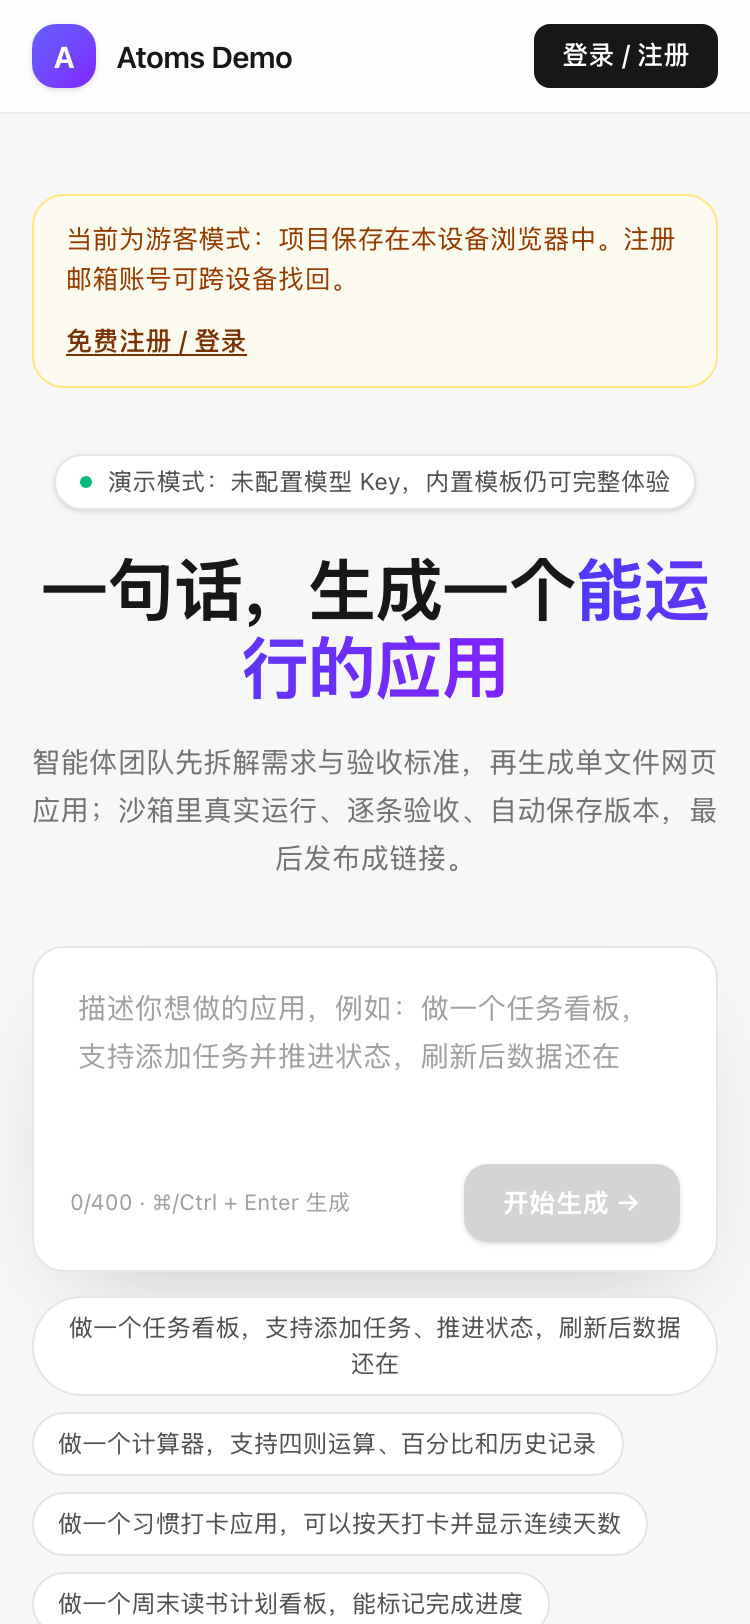
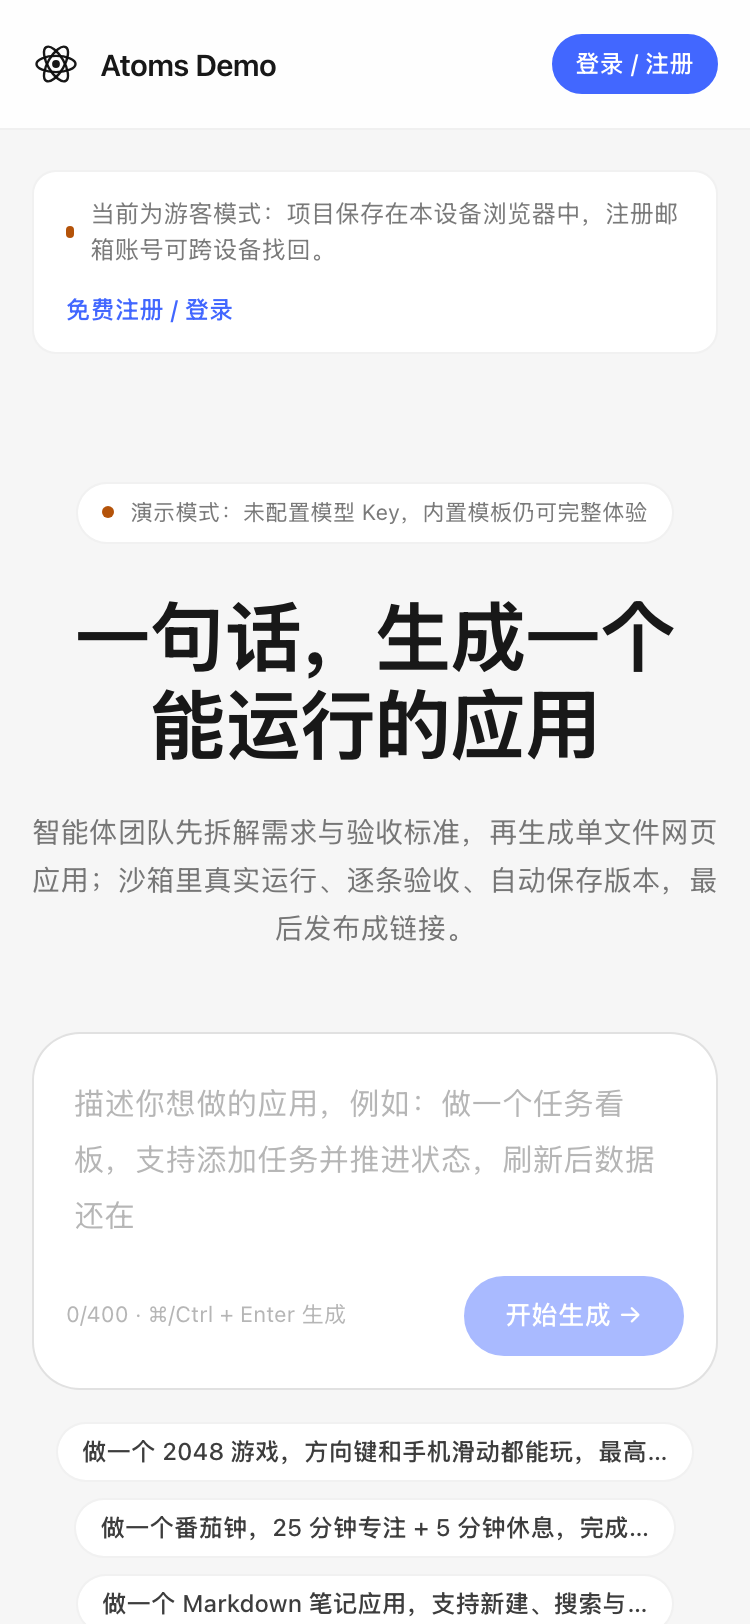
Document atoms-style UI refresh and refresh evidence screenshots
- Add a design-language section (paper-gray canvas, white surfaces,
  1px borders, cobalt #4267ff, pill controls, system font stack) and
  point UX evaluation at it
- Replace old 375px screenshots and add 1440px home/workspace/share
  captures under docs/evidence

diff --git a/docs/说明文档.md b/docs/说明文档.md
@@ -1,6 +1,6 @@
 # Atoms Demo 说明文档
 
-> 版本 v1.2（2026-11-13）｜仓库 [guojia3/atoms-demo](https://github.com/guojia3/atoms-demo)｜线上 <http://43.143.42.252>｜功能提交 `3f7a410`；文档与部署提交以仓库 HEAD 为准
+> 版本 v1.3（2026-11-13）｜仓库 [guojia3/atoms-demo](https://github.com/guojia3/atoms-demo)｜线上 <http://43.143.42.252>｜功能提交 `72c010d`（UI 改版）；文档与部署提交以仓库 HEAD 为准
 > 旧版里程碑（M1/M2/M3）已降级为第 7.4 节「验证记录」，本文以设计与证据为主结构。
 
 ## 0 摘要与 3 分钟评审路径
@@ -13,7 +13,7 @@
 | 最想让评审看到的 3 个设计 | ① 双路赛马 + 三段评分（静态 10 + 实测 50 + 清单 40），按总分/静态分/耗时择优；② 沙箱探针实测：验收基于真实点击、存储写入、运行时错误与横向溢出，而不是只读 HTML；③ Patch 局部修改（唯一锚点 + 失败回退全量）与版本、回滚、发布闭环 |
 | 工程规模 | 39 个源码文件 / 7,472 行；14 个测试脚本（`test/` 13 个 + `script/smoke.ts`）；8 张 SQLite 表；27 个 HTTP 接口 |
 | 在线地址 | <http://43.143.42.252>（Docker 部署，真模型，`mock=false`） |
-| GitHub | <https://github.com/guojia3/atoms-demo>（功能提交 `3f7a410`；文档与部署提交以仓库 HEAD 为准） |
+| GitHub | <https://github.com/guojia3/atoms-demo>（UI 功能提交 `72c010d`；文档与部署提交以仓库 HEAD 为准） |
 | 6 个成品直达 | [任务看板](http://43.143.42.252/s/k7m2x9) · [习惯打卡](http://43.143.42.252/s/h3t6w8) · [2048](http://43.143.42.252/s/g2a4m8) · [番茄专注](http://43.143.42.252/s/p6f3k9) · [Markdown 笔记](http://43.143.42.252/s/m4n8t2) · [记账本](http://43.143.42.252/s/e5x7b3) |
 | 关键数字 | 单元 17/17、smoke 22/22、模板回归 38/38、移动端 9/9、手机 BUG 回归 14/14；独立 QA 复测 129/129 通过（首轮 121 条设计用例通过率 93.2%）；7 个缺陷 + 2 个手机 BUG 全部关闭；真模型复测创建 89.2s、编辑 7.4s |
 | 诚实交代 | 交付形态是 HTTP + IP：Cookie 的 `Secure` 不启用（已知限制）；评分指标由客户端沙箱上报，理论上可篡改；限流与 SSE 事件在进程内，按单实例设计；旧 slug `/s/c4v8q1` 页面为 200 壳并提示已下线（API 404）；未接 CI；探针只覆盖 DOM 级交互，无视觉断言 |
@@ -224,6 +224,23 @@ flowchart LR
 - **预制成品**：启动时幂等写入 6 个种子成品（看板、习惯、2048、番茄、笔记、记账）；历史计算器 slug `c4v8q1` 在启动时删除，旧链接 API 404、页面提示已下线。
 
 代码落点：[routes/projects.ts](../src/server/routes/projects.ts)、[store.ts](../src/server/store.ts)、[seed.ts](../src/server/seed.ts)、[SharePage.tsx](../src/client/pages/SharePage.tsx)。
+
+### 3.7 界面设计语言
+
+参考 atoms.dev 官方产品的设计语言，**全部为原创实现**（未复用任何素材、字体文件或组件代码），统一在 [styles.css](../src/client/styles.css) 定义 token：
+
+| 维度 | 取值 | 说明 |
+| --- | --- | --- |
+| 画布 | 纸灰 `#f6f6f6` / `#f8f8f6` | 页面底色，弱化装饰，突出内容 |
+| 表面 | 纯白 `#ffffff` | 卡片、输入区、报告区；以 1px 描边替代重阴影 |
+| 描边 | `rgba(12,12,12,0.06)` / `0.12`（强） | 卡片与分隔线；悬停时描边加深 |
+| 强调色 | 钴蓝 `#4267ff`（hover `#3355e6`，soft `12%`） | 主按钮、选中态、链接与进度；全站唯一强调色 |
+| 控件 | 8–10px 圆角按钮 + `9999px` 胶囊（标签、分段、状态） | 高度 36px、13px 字号，几乎无阴影 |
+| 字体 | 系统字体栈 `IBM Plex Sans / SF Pro Text / -apple-system / PingFang SC` | 不下载外部字体，离线与国内网络均可直出 |
+| 反馈色 | 成功 `#0f9f6e`、警告 `#b45309`、失败 `#dc2626` | 仅用于实测评语、分数档与错误提示 |
+| 响应式 | 桌面 / 平板 / 手机三档 | 工作台 ≥1280px 三栏、768–1279px 抽屉、<768px 单栏；分享页内容自适应高度 |
+
+视觉证据：[首页 375](evidence/home-375.png) / [首页 1440](evidence/home-1440.png)、[工作台 375](evidence/workspace-375.png) / [工作台 1440](evidence/workspace-1440.png)、[分享页 375](evidence/share-375.png) / [分享页 1440](evidence/share-1440.png)。
 
 ## 4 数据模型与接口契约
 
@@ -476,7 +493,7 @@ QA_BASE=http://127.0.0.1:3300 node test/templates-check.mjs
 | --- | --- | --- |
 | 完成度 | 生成—验收—发布闭环完整，6 个成品可直接体验 | 0.2 评审路径、6.1 对照表、公网 smoke 22/22 |
 | 工程思维 | 三段评分、Patch 回退、终态保护、KV 边界、断线回放 | 3.3、3.4、5.2、8 |
-| UX / 产品感 | 执行记录可见、双路分数对比、报告可展开、三档响应式布局 | 工作台、分享页；375/1024/1280/1440 截图 |
+| UX / 产品感 | 参考 atoms.dev 的纸灰画布 + 纯白表面 + 钴蓝强调设计语言（原创实现）；执行记录可见、双路分数对比、报告可展开、三档响应式布局 | 3.7、`docs/evidence/` 新版 375/1440 截图 |
 | 创新点 | 沙箱实测打分与赛马择优、模板成品即数据 | 3.2、3.3、3.6 |
 | 可交付性 | Docker 单容器、卷保留、部署脚本、健康检查、回滚路径 | 5.3、7.5、7.6 |
 
@@ -550,8 +567,9 @@ QA_BASE=http://127.0.0.1:3300 node test/templates-check.mjs
 
 | 证据 | 位置 |
 | --- | --- |
-| 首页 375px | [evidence/home-375.png](evidence/home-375.png) |
-| 分享页 375px | [evidence/share-375.png](evidence/share-375.png) |
+| 首页 375px / 1440px（新版 UI） | [evidence/home-375.png](evidence/home-375.png)、[evidence/home-1440.png](evidence/home-1440.png) |
+| 工作台 375px / 1440px（新版 UI） | [evidence/workspace-375.png](evidence/workspace-375.png)、[evidence/workspace-1440.png](evidence/workspace-1440.png) |
+| 分享页 375px / 1440px（新版 UI） | [evidence/share-375.png](evidence/share-375.png)、[evidence/share-1440.png](evidence/share-1440.png) |
 | 测试方案 | [测试方案.md](测试方案.md) |
 | 测试用例与执行报告（121/93.2% → 129/129） | [测试用例与执行报告.md](测试用例与执行报告.md) |
 | 素材来源与许可 | [素材来源.md](素材来源.md) |

diff --git a/docs/最终验收清单.md b/docs/最终验收清单.md
@@ -94,7 +94,7 @@
 | D7 | 密钥与忽略规则 | `.gitignore` 覆盖 `.env`/`data`/`dist`/`*.db`；仓库无 Key | ✅ | — |
 | D8 | 仓库说明文档 | HEAD 149 行旧版；工作区 v1.2 555 行（+502/−96）未提交 | ❌ | P0-1 |
 | D9 | 测试报告事实 | 报告已补注：复测后线上已部署修复版；HTTP + IP 为定稿交付形态；安全头已核验 | ✅ | — |
-| D10 | 文档内链/截图 | 内链 0 缺失；仓库仅 `docs/evidence/home-375.png`、`share-375.png`；工作台截图仅本地 | ◐ | P2-5 |
+| D10 | 文档内链/截图 | 内链 0 缺失；仓库含新版 UI `docs/evidence/` 6 张（首页/工作台/分享页 × 375/1440） | ✅ | — |
 | D11 | CI | 无 `.github`、无 Actions | ❌ | P1-2 |
 | D12 | 技术方案入仓 | 仓库无 `技术方案.md`/`需求规划.md`（仅仓库外规划目录） | ❌ | P2-2（题面未强制） |
 | D13 | 演示视频/录屏 | 仓库与文档无视频；旧版文档写“留到部署后制作” | ❌ | P2-1（非必需） |
@@ -142,7 +142,7 @@
 | P2-2 | 技术方案/需求规划未入仓 | 将 `需求规划.md`、`技术方案.md` 放 `docs/` 并在 README/说明文档链接 | 工程思维与可追溯性 |
 | P2-3 | 重试策略（同 P1-4 的细节） | 见 P1-4；另可加请求间隔节流 | 429 韧性 |
 | P2-4 | Safari/真机兼容未验证 | 用 BrowserStack 或真机 Safari 打开首页+1 成品；记录结果 | 兼容性证据；当前不作为阻断 |
-| P2-5 | 工作台三档截图未入仓 | 将 375/1024/1280/1440 工作台截图放 `docs/evidence/` 并在说明文档引用 | 响应式证据公开可查 |
+| P2-5 | 工作台三档截图未入仓 | ~~将 375/1024/1280/1440 工作台截图放 `docs/evidence/`~~ 已补 375/1440 首页、工作台、分享页新版截图；1024/1280 仍可按需补 | 响应式证据公开可查 |
 | P2-6 | 提交历史单薄（2 个提交） | 后续改动按“功能/测试/文档”拆分提交；保留本次验收清单单独提交 | “git 提交规范”评分 |
 | P2-7 | 分享页旧 slug 返回 200 壳 | 服务端对已下线 slug 直接 404，或页面明确“已下线”；同步文档 | 细节体验/事实一致性 |
 | P2-8 | 结构化日志/指标缺失 | 增加请求 ID、生成耗时、provider 失败计数日志端点 | 线上排障；非演示必需 |

diff --git a/README.md b/README.md
@@ -89,6 +89,7 @@ LLM_PROVIDERS=[{"name":"deepseek","baseUrl":"https://api.deepseek.com/v1","apiKe
 - **点选编辑**：沙箱内点选元素后，把 selector、标签、文本与 HTML 片段作为上下文随修改要求提交。
 - **一键修复**：验收未通过时，将失败项 + Console 报错整理成 fix 指令，一键发起修复迭代。
 - **断线恢复**：SSE 运行事件带单调序号，内存缓冲 400 条，支持 `from` 回放；进程重启把 running 标记为 interrupted。
+- **界面设计**：参考 atoms.dev 官方产品的设计语言、原创实现——纸灰画布（`#f6f6f6`）+ 纯白表面 + 1px 描边 + 单一钴蓝强调（`#4267ff`）+ 胶囊控件 + 系统字体栈（IBM Plex Sans / SF Pro / PingFang），token 定义在 [src/client/styles.css](src/client/styles.css)，桌面/平板/手机三档响应式。
 
 ## 评分模型（100 分）
 
